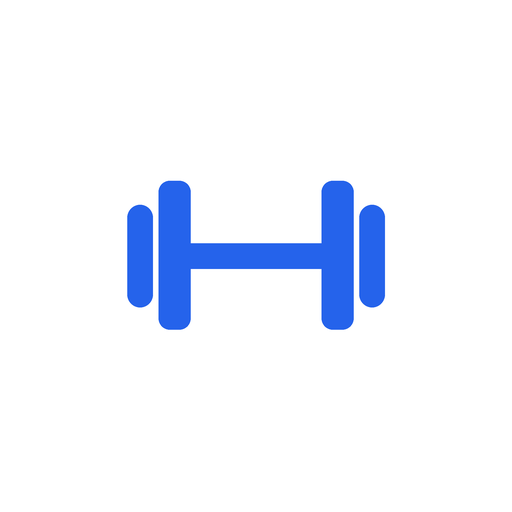
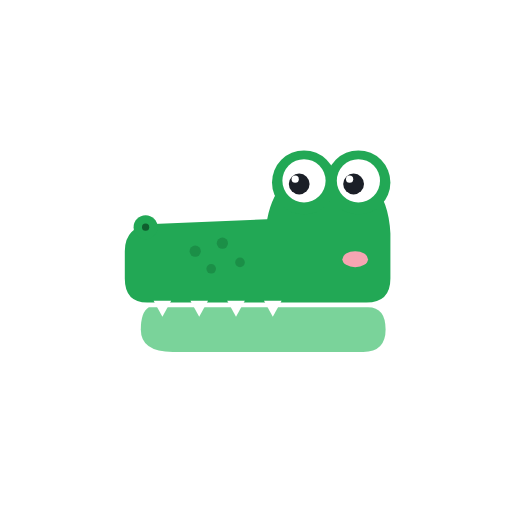
앱 아이콘: 덤벨 대신 악어
Claude-Session: https://claude.ai/code/session_01RWE3yuQaBDvGzczAaa8CdR

Changed region(s): [[0.2188, 0.2812, 0.7812, 0.6875]]

diff --git a/sw.js b/sw.js
@@ -1,4 +1,4 @@
-const CACHE = 'setlog-v49';
+const CACHE = 'setlog-v50';
 const CORE = ['./', './index.html', './manifest.webmanifest', './icon-192.png', './icon-512.png', './icon-180.png'];
 self.addEventListener('install', e => {
   e.waitUntil(caches.open(CACHE).then(c => c.addAll(CORE)).then(() => self.skipWaiting()));
